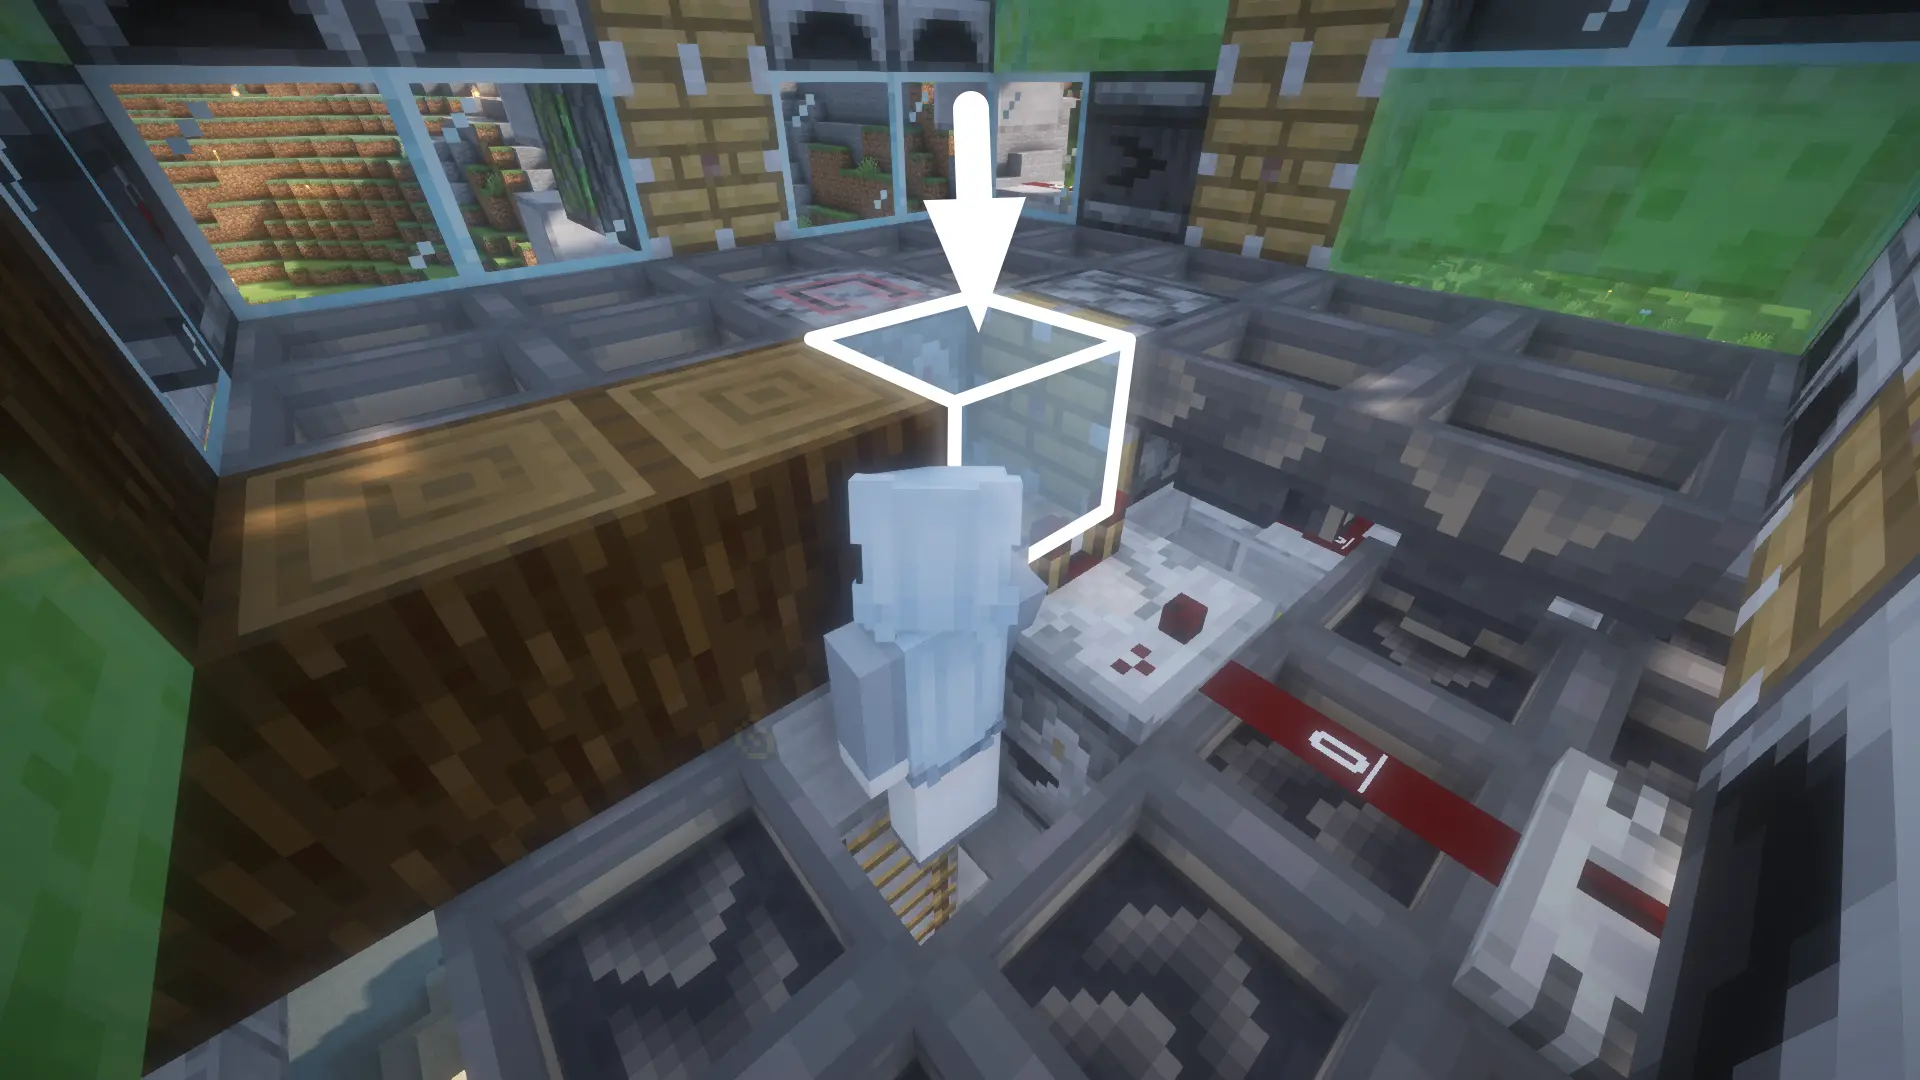
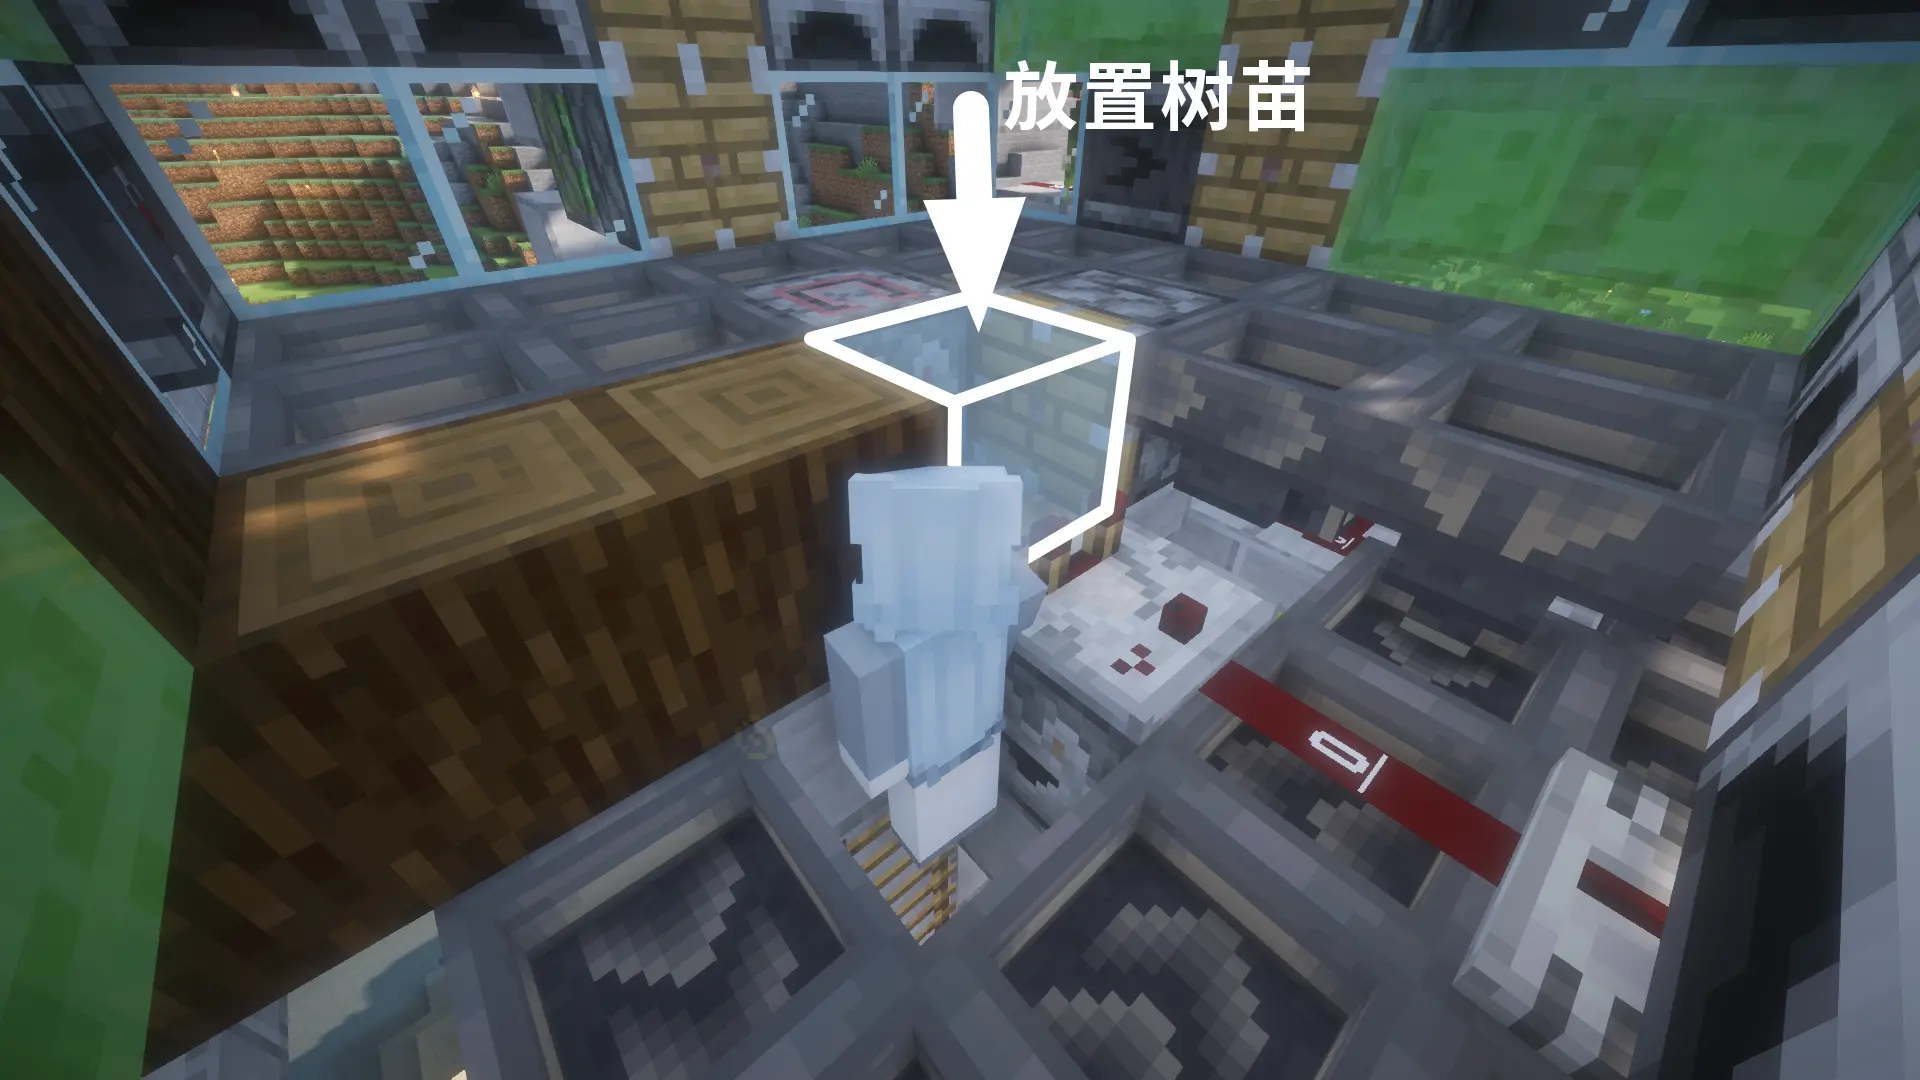
更新

Changed region(s): [[0.5, 0.0611, 0.6875, 0.1222]]

diff --git a/src/pages/index.tsx b/src/pages/index.tsx
@@ -41,18 +41,26 @@ export default function Home(): JSX.Element {
             description="Description will go into a meta tag in <head />">
             <HomepageHeader />
             <main>
-                <center>
-                    <div style={{
-                        height: '40em',
-                        width: 'auto',
-                        overflow: 'hidden',
-                        backgroundImage: 'linear-gradient(to top, rgba(48, 56, 70, 1), rgba(48, 56, 70, 0)), url(\'img/cover.webp\')',
-                        backgroundSize: 'cover',
-                        backgroundPosition: 'center center',
-                        backgroundRepeat: 'no-repeat'
-                    }}>
-                    </div>
-                </center>
+                <div style={{
+                    height: '40em',
+                    width: 'auto',
+                    overflow: 'hidden',
+                    backgroundImage: 'url(\'img/cover.webp\')',
+                    backgroundSize: 'cover',
+                    backgroundPosition: 'center center',
+                    backgroundRepeat: 'no-repeat'
+                }}>
+                </div>
+                <div style={{
+                    height: '40em',
+                    width: 'auto',
+                    overflow: 'hidden',
+                    backgroundImage: 'linear-gradient(to top, rgba(48, 56, 70, 1), rgba(48, 56, 70, 0)), url(\'img/cover-2.webp\')',
+                    backgroundSize: 'cover',
+                    backgroundPosition: 'center center',
+                    backgroundRepeat: 'no-repeat'
+                }}>
+                </div>
             </main>
         </Layout >
     );

diff --git a/docs/place/machine/渗浆史莱姆农场.md b/docs/place/machine/渗浆史莱姆农场.md
@@ -1,0 +1,97 @@
+# 渗浆史莱姆农场
+
+```
+主要建造者：		msterLazy
+主世界：			-230 ~ +100
+```
+
+<center><img src="/img/place/渗浆史莱姆农场-1.webp" /><strong>图 1</strong>：机器正面</center>
+
+利用渗浆药水快速量产**粘液球**的地方。同时也可以提供大量经验（附加价值）。
+
+参考 [BV12S421X7J4](https://www.bilibili.com/video/BV12S421X7J4) 设计，做了若干改动来增强稳定性。
+
+## 使用方法
+
+<center><img src="/img/place/渗浆史莱姆农场-2.webp" /><strong>图 2</strong>：机器左侧面</center>
+
+<br/>
+
+首先检查耗材是否就位：
+
+- 检查上图中发射器（和漏斗、箱子）内的**剪刀**是否充足。发射器（或漏斗、箱子）内至少要有 5 把满耐久的剪刀。
+
+<center><img src="/img/place/渗浆史莱姆农场-3.webp" /><strong>图 3</strong>：机器背面</center>
+
+<br/>
+
+来到机器背面：
+
+- 检查**喷浆型渗浆药水**是否充足。如果没有，请尝试用粘液块 + 粗制的药水酿造渗浆药水，然后用火药酿造，令其变成喷溅型药水。
+- 检查左侧的发射器内**雕刻南瓜**的数量是否大于 10 个。机器运行中雕刻南瓜会被回收，所以通常发射器内的雕刻南瓜是充足的。
+
+然后你可以开始使用机器。以下是详细步骤：
+
+- 考虑你需要多少粘液块。根据经验，9 个雪块约可以产出 8 个粘液块。据此你可以大概估算需要多少雪块。注意，机器运行中大部分雪块是会被回收的（回收率约 98%），因此你不需要准备很多雪块。**图 1** 中的大箱子中往往可以找到一些雪块。
+
+:::info
+
+雪块用于召唤雪傀儡，之后雪傀儡被喷溅渗浆药水并被处死，以产生史莱姆。
+
+:::
+
+- 由于渗浆药水的作用时间有限，请分批召唤雪傀儡，**一次使用 8 组雪块**可以达到最佳转化率。
+- 开始召唤雪傀儡之前，检查**图 2** 中的拉杆是否拉下（其下方的红石应为网状并被点亮）
+
+<center><img src="/img/place/渗浆史莱姆农场-4.webp" /><strong>图 4</strong>：挂机位置</center>
+
+<br/>
+
+来到挂机位置：
+
+- 面向并紧贴石砖墙，准星对准玻璃，如上图所示。
+- **按住右键**放置雪块，**连续**召唤雪傀儡。注意一定要保持连续，不能中断。这是因为前一个雪傀儡需要后一个雪傀儡的挤压，才能到正确的位置上去。你可以按住右键，不过强烈建议使用 [Tweakeroo](/docs/guide/mod#tweakeroo) 提供的**快速右键** + **手持物品自动补货**功能。
+- 以 8 组雪块为例，你将召唤 256 个雪傀儡，它们会被挤在一块。别担心，因为脚手架的存在，它们不会因为实体挤压而受到伤害。
+
+当雪块用完，或者你观察到无法挤入新的雪傀儡时，停止放置雪块。
+
+- 到机器背面，激活**图 3** 中发射器上边的按钮，向雪傀儡发射喷溅药水。
+- 之后迅速来到机器侧面，松开**图 2** 中的拉杆。
+
+这时雪傀儡会开始被分离并处死。你现在可以进入**图 2** 所示的**屠宰室**。
+
+<center><img src="/img/place/渗浆史莱姆农场-5.webp" /><strong>图 5</strong>：屠宰室</center>
+
+<br/>
+
+建议按照以下顺序操作：
+
+- 捡起地上的雪块，打开合成开关，把雪球放入箱船。回收地上的雪球并合成雪块。
+- 合成的雪块储存在那圈漏斗中央的木桶里。建议把这些雪块转移到地面的大箱子中，方便后人使用。
+- 等到雪球清理完毕，史莱姆应该都聚集在活版门里面的装置中了。
+
+:::tip
+
+击杀史莱姆时**建议关闭光影**。因为此时实体数量会超过 1500，峰值时甚至接近 3000。这会给你的渲染器造成很大的负担。当然对于服务器也有一定负担。
+
+请及时击杀史莱姆，不仅是为了减少负担，还是为了提高转化率。当你离开农场太远时，这些史莱姆会消失。
+
+:::
+
+<center><img src="/img/place/渗浆史莱姆农场-6.webp" /><strong>图 6</strong>：高度聚集的史莱姆</center>
+
+<br/>
+
+你可以站在脚手架上砍死这些史莱姆。建议使用带有**抢夺 III** 附魔的剑，这可以提升粘液球产出。使用横扫之刃，砍两下就可以杀死所有史莱姆。（第二次砍会比较卡）。很有可能你会不小心砍掉脚手架，如果那确实发生了，请重新放置脚手架，恢复成下面的样子：
+
+<center><img src="/img/place/渗浆史莱姆农场-7.webp" /><strong>图 7</strong></center>
+
+<br/>
+
+收集所有的粘液球，把它们合成成粘液块。
+
+:::tip
+
+再次召唤雪傀儡之前，请拉下机器侧面的拉杆。离开机器前也请拉下拉杆。
+
+:::

diff --git a/docs/place/machine/刷沙机.md b/docs/place/machine/刷沙机.md
@@ -8,7 +8,9 @@
 
 ![](/img/place/刷沙机-1.webp)
 
-可以刷一切重力方块，包括：沙子、红沙、沙砾、混凝土粉末，甚至还有铁砧、龙蛋。
+可以刷一切重力方块，包括：**沙子**、红沙、沙砾、**混凝土粉末**，甚至还有**铁砧**、龙蛋。
+
+参考 [BV1rP411W7DG](https://www.bilibili.com/video/BV1rP411W7DG) 设计。
 
 ## 使用方法
 

diff --git a/docs/mod/bbor.md b/docs/mod/bbor.md
@@ -1,4 +1,10 @@
 # BBOR 自然生成建筑结构显示
+:::info 此页面已过时
+
+BBOR 没有适用于 1.21.4 的版本，所以服务器现在没有安装这个mod。
+
+:::
+
 这个 mod 的全称是：Bounding Box Outline Reloaded。
 
 https://www.mcmod.cn/class/1869.html

diff --git a/docs/place/machine/女巫塔.md b/docs/place/machine/女巫塔.md
@@ -8,5 +8,5 @@
 
 ![](/img/place/女巫塔.webp)
 
-这里量产万恶之源——红石。
+量产：**红石块**、萤石粉、蜘蛛眼、玻璃瓶、木棍。
 

diff --git a/docs/place/machine/溺尸塔.md b/docs/place/machine/溺尸塔.md
@@ -2,7 +2,7 @@
 
 ```
 主要建造者：		stickman_stickmi
-主世界：			-380 190 147
+主世界：			-380 +190 +147
 ```
 
 ![](/img/place/溺尸塔.webp)
